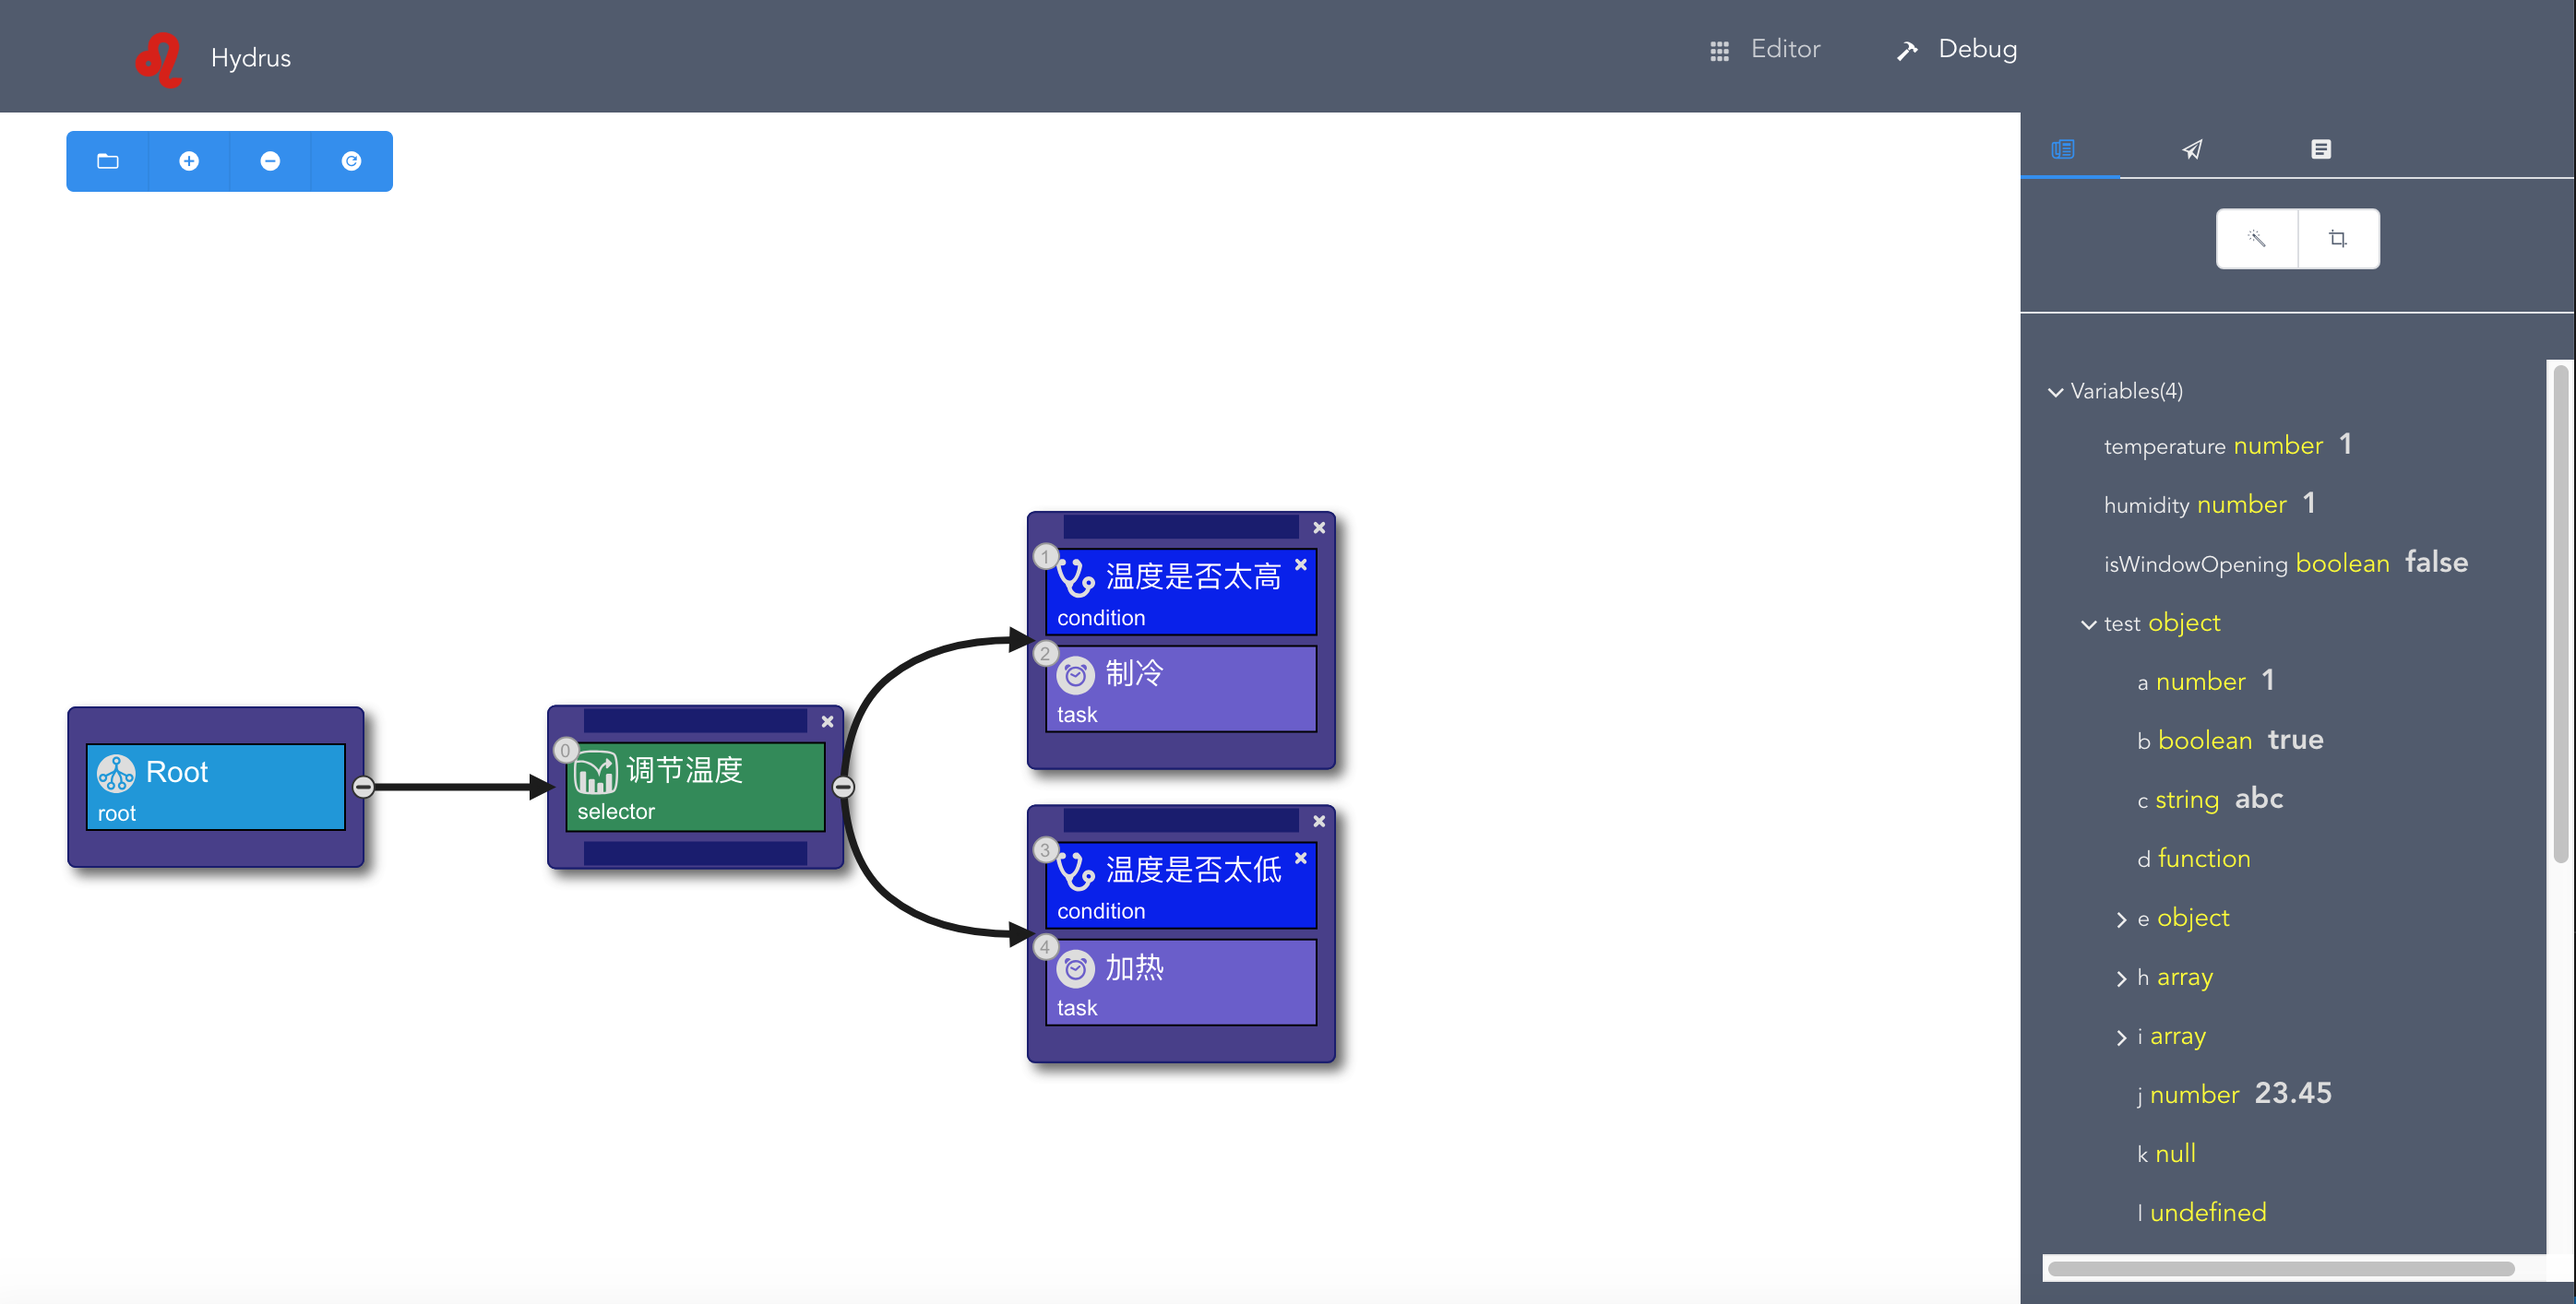
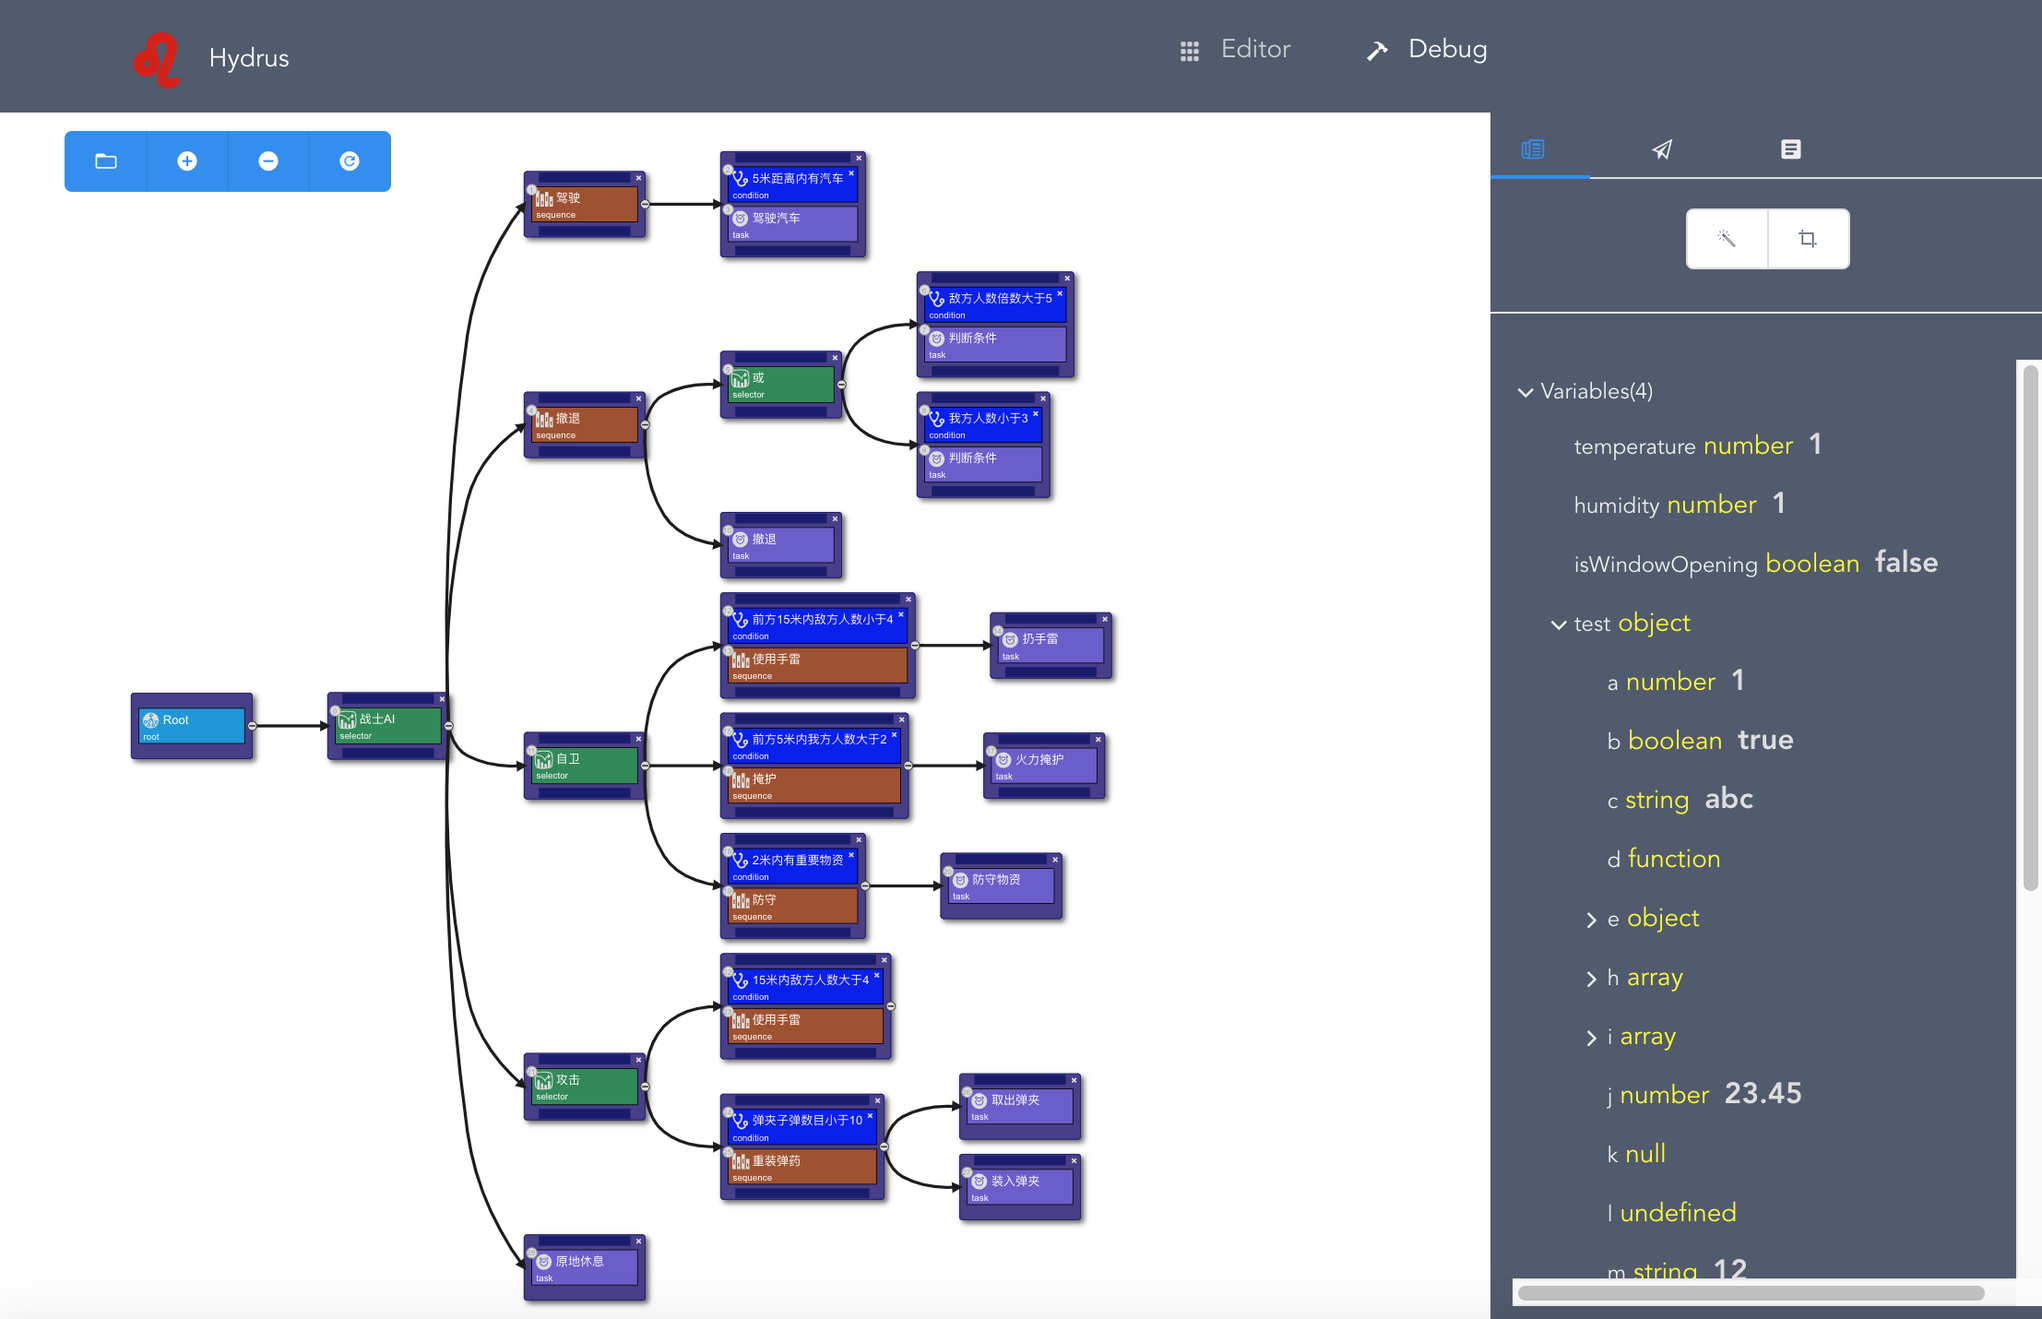
readme

diff --git a/README.md b/README.md
@@ -21,14 +21,42 @@ npm run serve
 
 ![image](https://github.com/guobinnew/Hydrus/blob/master/screenshots/editor.png?raw=true)
 
-#### 行为树节点
+### 菜单条
+
+从左往右依次为：
++ 打开本地JSON文件
++ 保存为本地JSON文件
++ 快速加载（LocalStorage）
++ 快速保存（LocalStorage）
++ 放大
++ 缩小
++ 重置
++ Undo
++ Redo
++ 清空
++ 添加节点/标签
+
+#### 添加节点
+
+4类节点：
 + Selector 选择节点
 + Sequence 序列节点
 + Parallel 并行节点
 + Task 任务节点
 
-#### 行为树标签
+![image](https://github.com/guobinnew/Hydrus/blob/master/screenshots/add-selector.png?raw=true)
+
+
+#### 添加标签
+
+2类标签
 + Decorator 条件标签
 + Service 服务标签
 
+![image](https://github.com/guobinnew/Hydrus/blob/master/screenshots/add-decorator.png?raw=true)
+
+
 ### 调试器
+
+![image](https://github.com/guobinnew/Hydrus/blob/master/screenshots/debug.png?raw=true)
+
